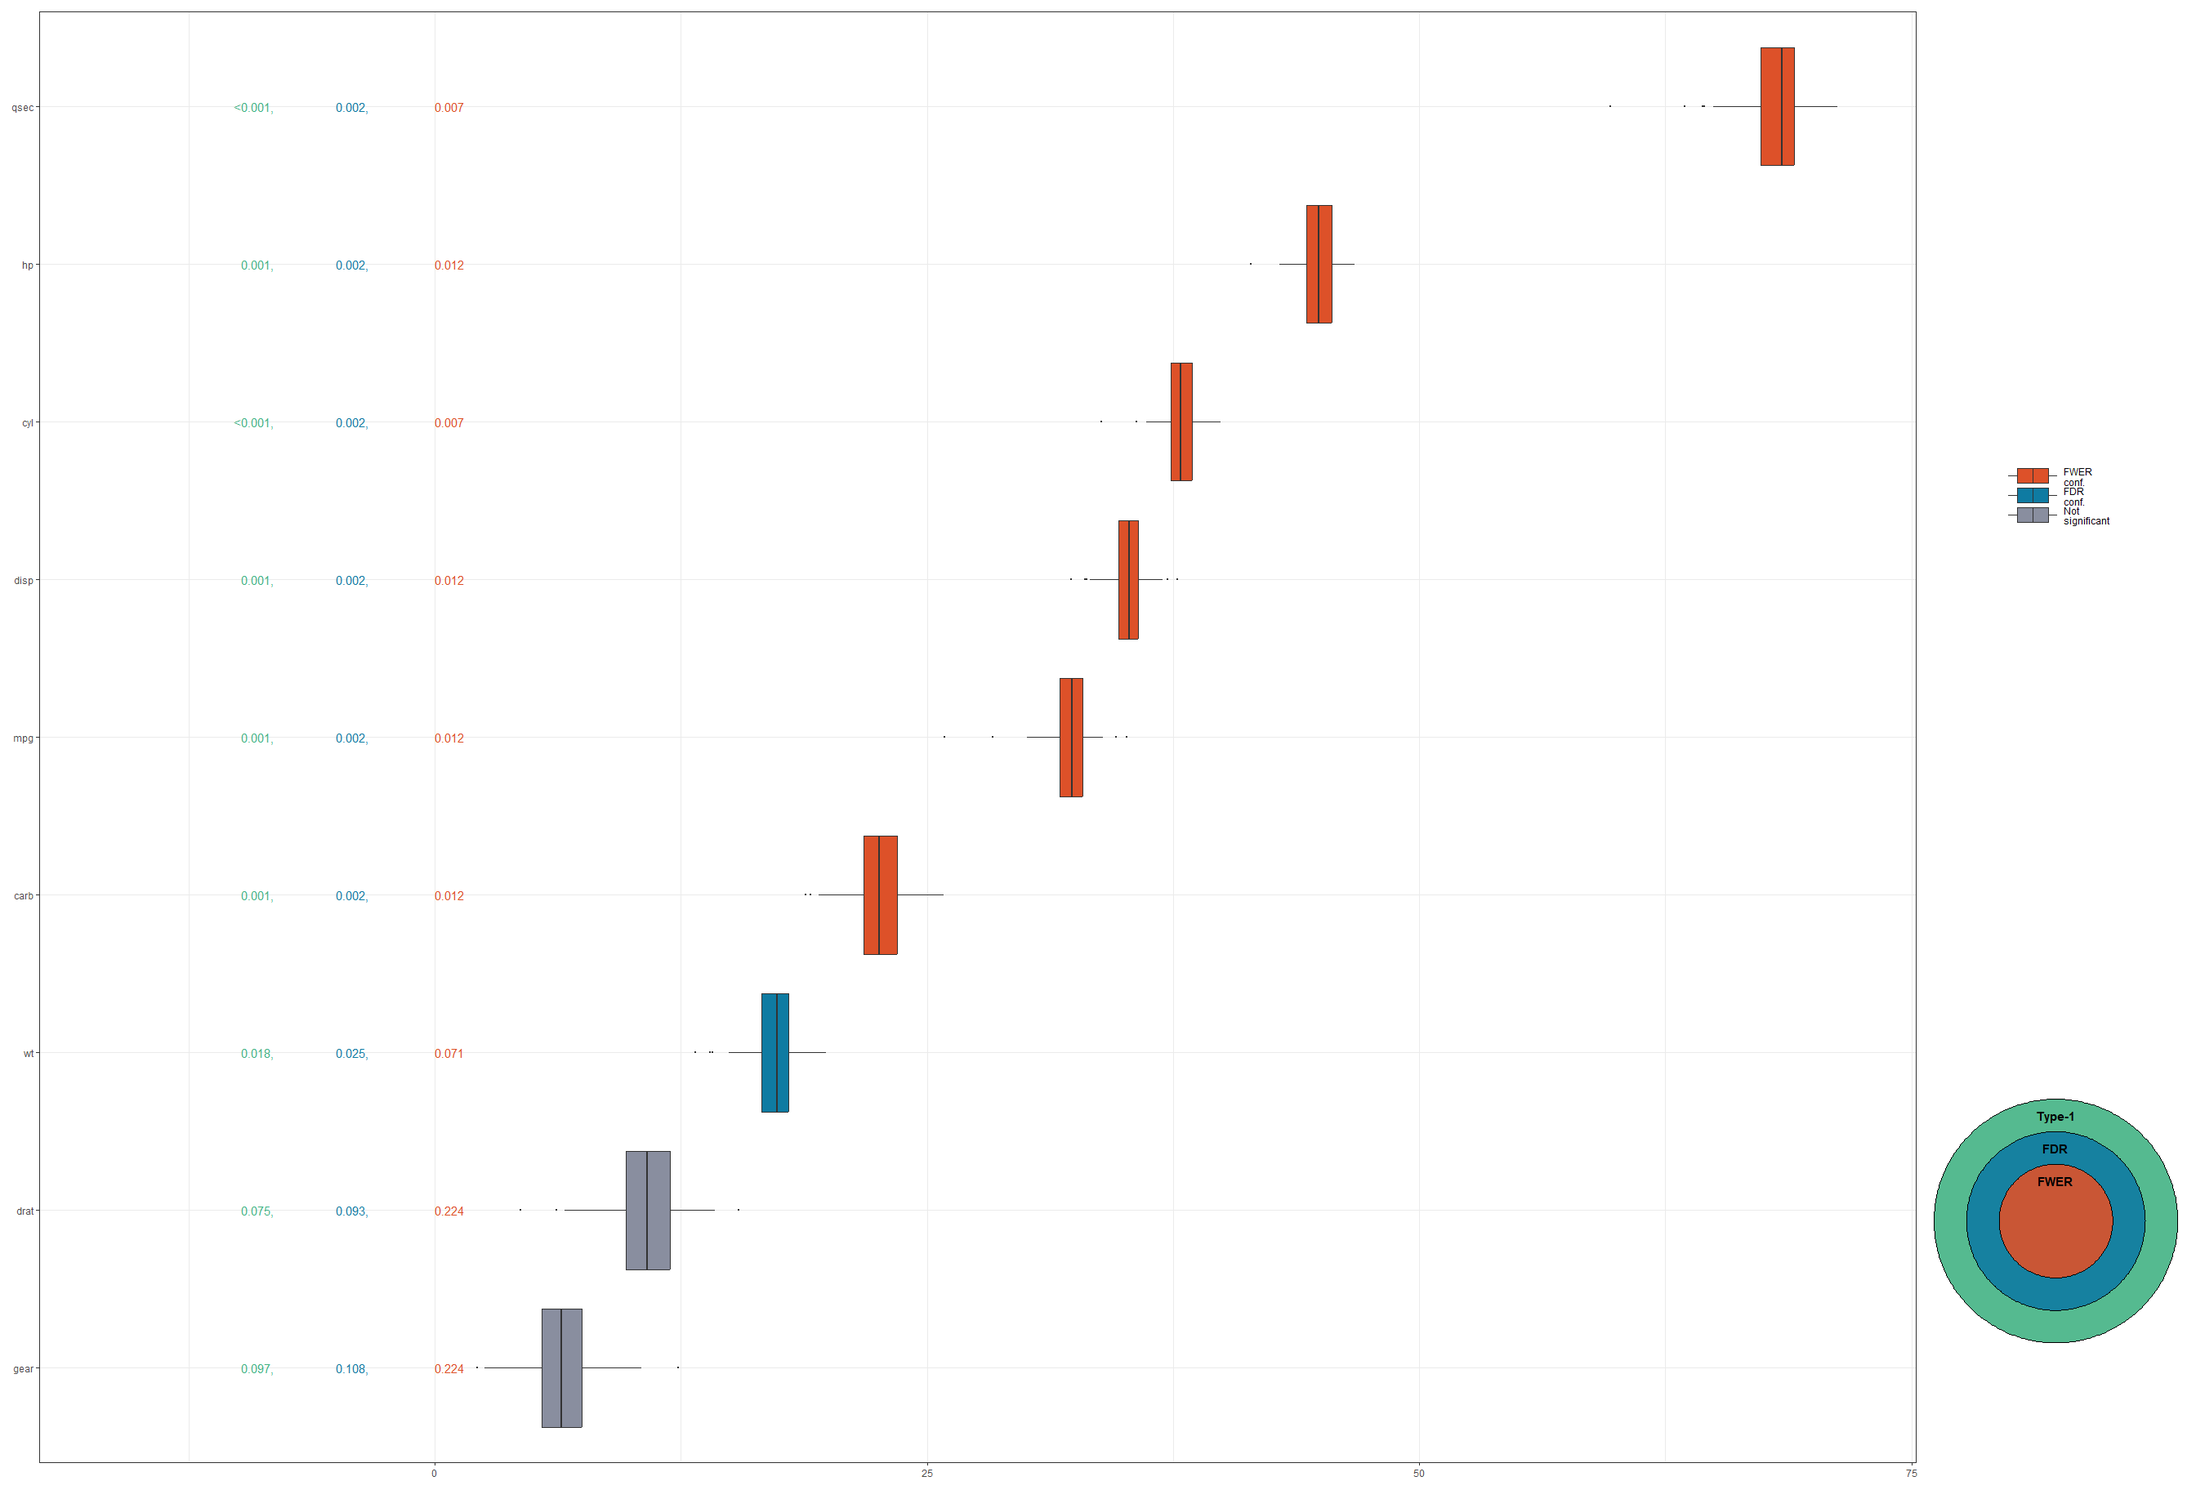
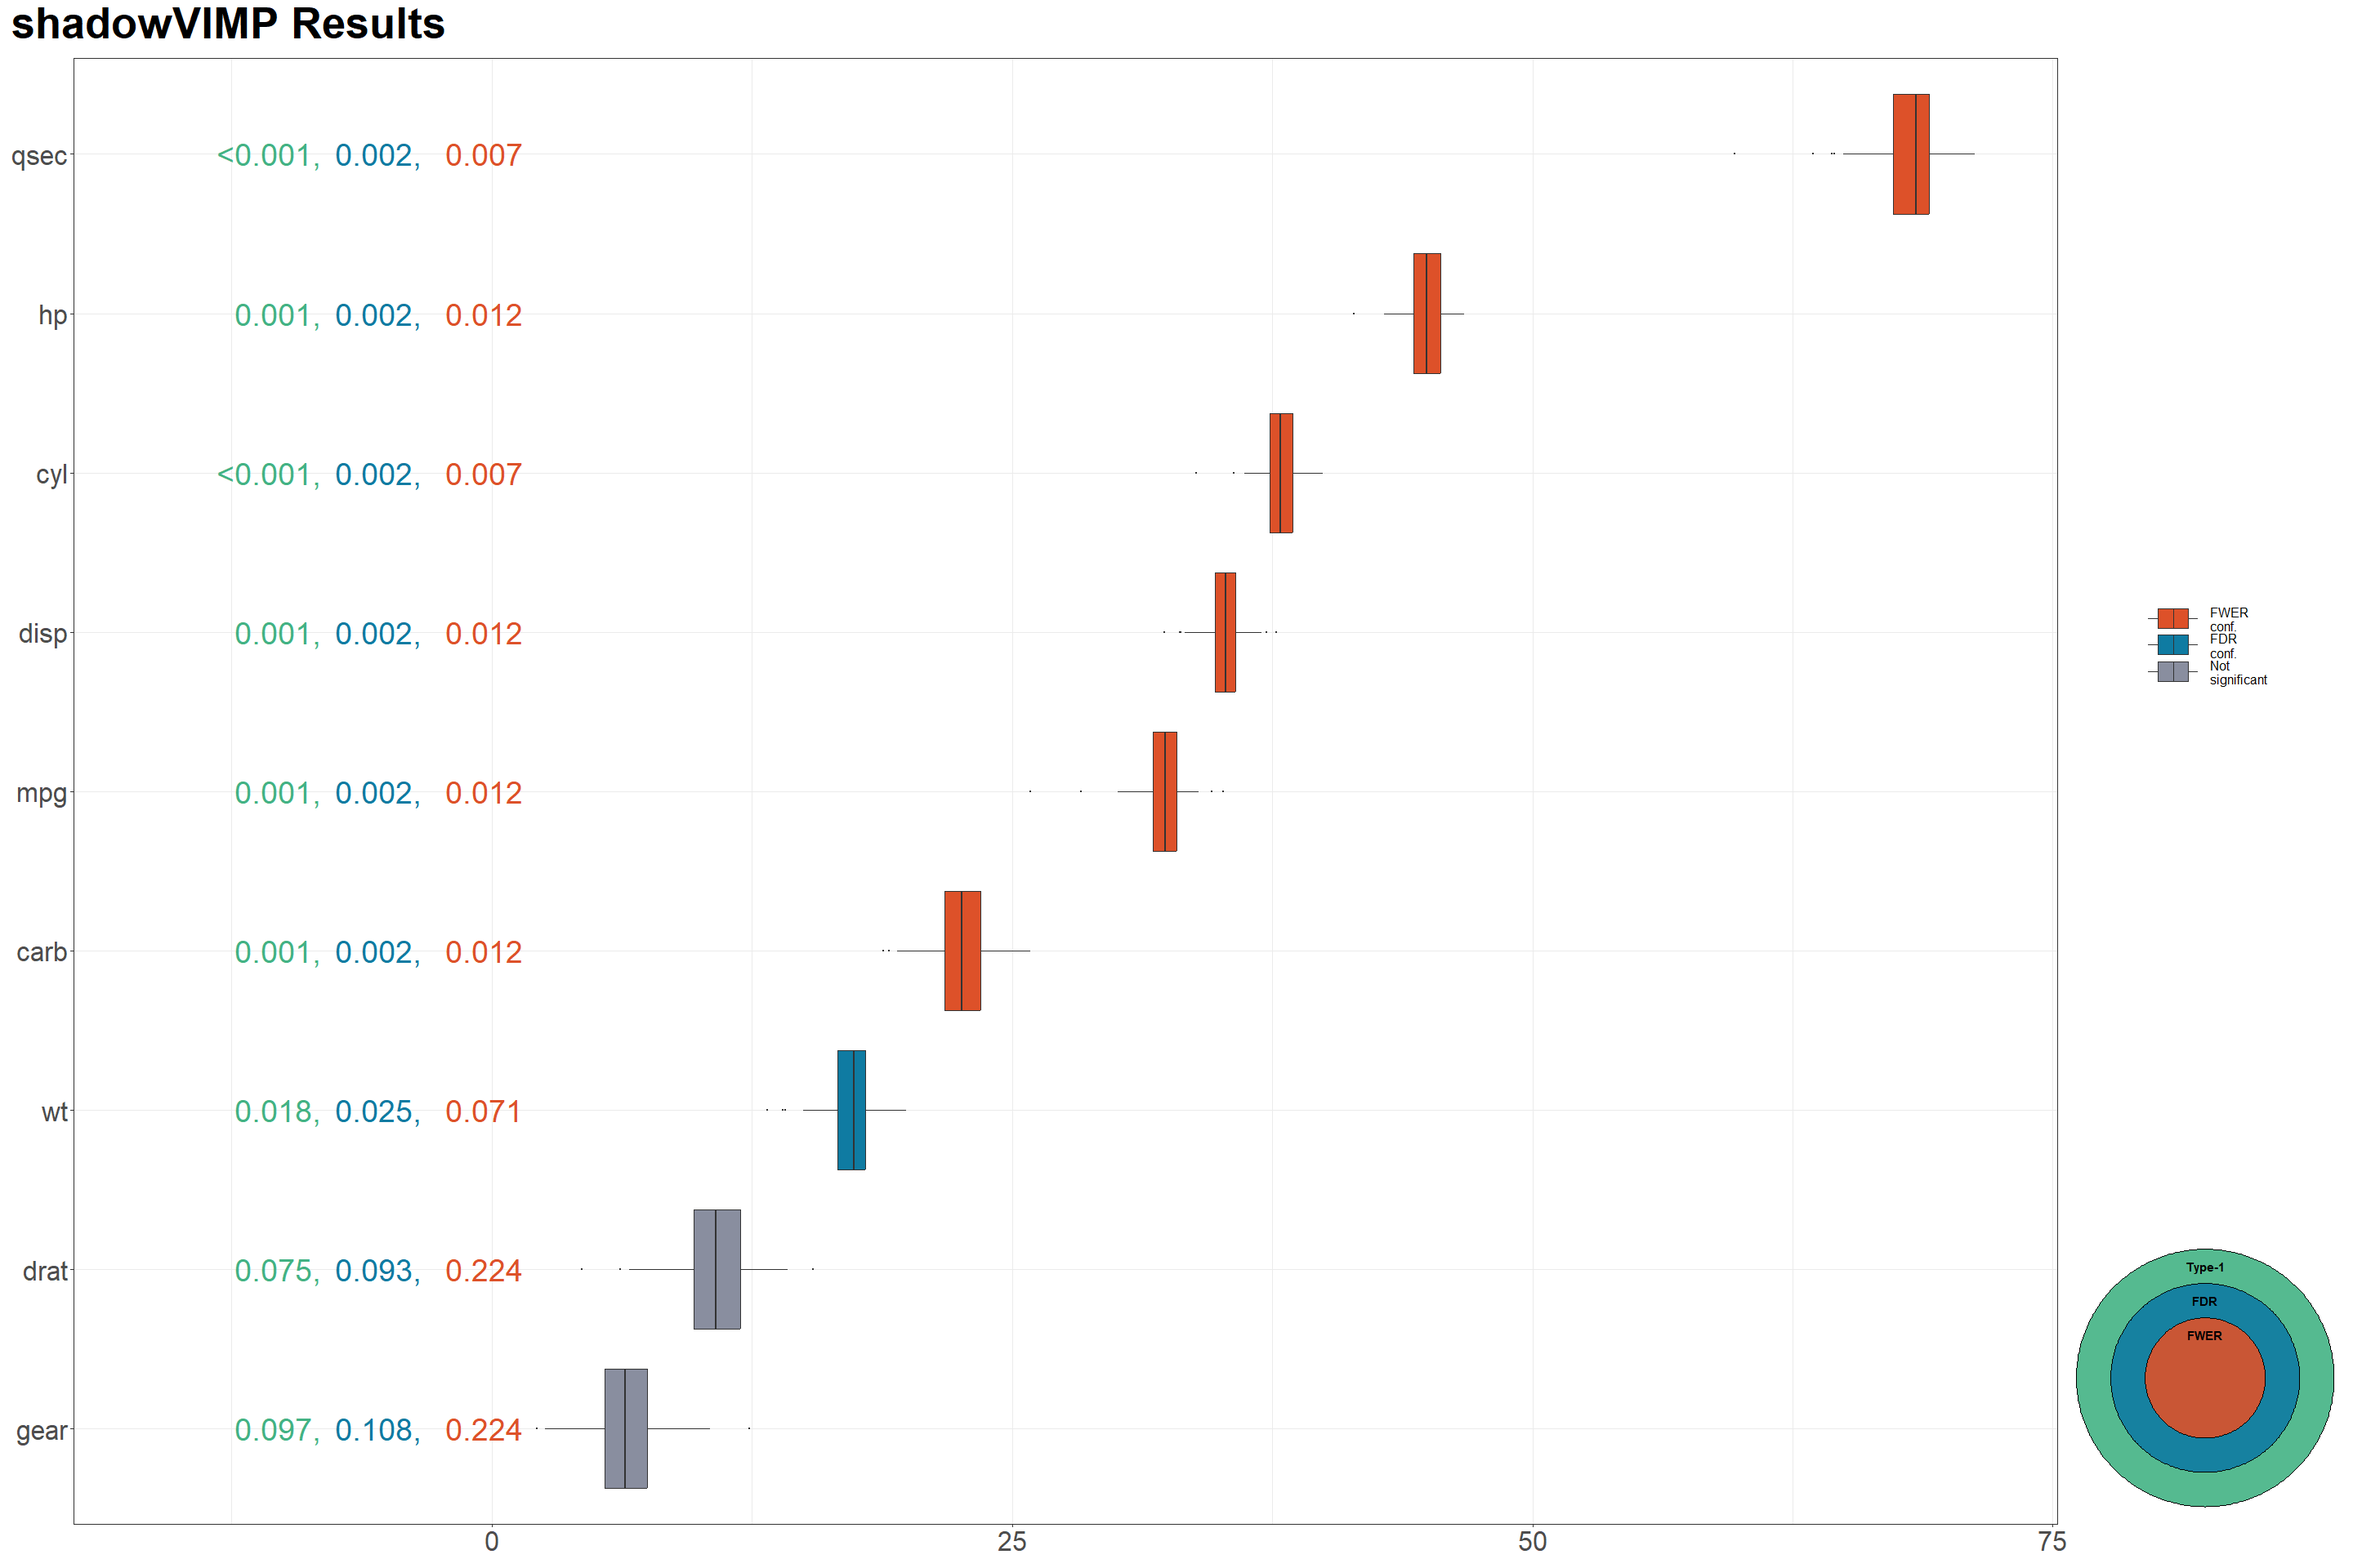
update plot [skip ci]

diff --git a/README.md b/README.md
@@ -54,6 +54,7 @@ the basic use case.
 ``` r
 library(shadowVIMP)
 library(magrittr)
+library(ggplot2)
 
 data(mtcars)
 
@@ -64,18 +65,18 @@ set.seed(789)
 # When working with real data, increase the value of the niters parameter or leave it at the default value
 vimp_seq <- shadow_vimp(data = mtcars, outcome_var = "vs", niters = c(30, 100, 150))
 #> alpha  0.3  
-#> 2025-03-19 14:11:39: dataframe = mtcars niters = 30 num.trees = 10000. Running step 1
+#> 2025-03-20 12:50:58: dataframe = mtcars niters = 30 num.trees = 10000. Running step 1
 #> Variables remaining:  10 
 #> alpha  0.1  
-#> 2025-03-19 14:11:45: dataframe = mtcars niters = 100 num.trees = 10000. Running step 1
-#> 2025-03-19 14:11:51: dataframe = mtcars niters = 100 num.trees = 10000. Running step 50
-#> 2025-03-19 14:11:58: dataframe = mtcars niters = 100 num.trees = 10000. Running step 100
+#> 2025-03-20 12:51:04: dataframe = mtcars niters = 100 num.trees = 10000. Running step 1
+#> 2025-03-20 12:51:10: dataframe = mtcars niters = 100 num.trees = 10000. Running step 50
+#> 2025-03-20 12:51:17: dataframe = mtcars niters = 100 num.trees = 10000. Running step 100
 #> Variables remaining:  9 
 #> alpha  0.05  
-#> 2025-03-19 14:11:58: dataframe = mtcars niters = 150 num.trees = 10000. Running step 1
-#> 2025-03-19 14:12:04: dataframe = mtcars niters = 150 num.trees = 10000. Running step 50
-#> 2025-03-19 14:12:10: dataframe = mtcars niters = 150 num.trees = 10000. Running step 100
-#> 2025-03-19 14:12:17: dataframe = mtcars niters = 150 num.trees = 10000. Running step 150
+#> 2025-03-20 12:51:17: dataframe = mtcars niters = 150 num.trees = 10000. Running step 1
+#> 2025-03-20 12:51:24: dataframe = mtcars niters = 150 num.trees = 10000. Running step 50
+#> 2025-03-20 12:51:31: dataframe = mtcars niters = 150 num.trees = 10000. Running step 100
+#> 2025-03-20 12:51:38: dataframe = mtcars niters = 150 num.trees = 10000. Running step 150
 #> Variables remaining:  7
 
 # Print informative covariates according to the pooled criterion (with and without p-value correction)
@@ -112,16 +113,16 @@ vimp_seq$result_taken_from_previous_step
 # Check the time needed to execute each step of the algorithm and the entire procedure
 vimp_seq$time_elapsed
 #> $step_1
-#> [1] 0.08808955
+#> [1] 0.0972524
 #> 
 #> $step_2
-#> [1] 0.2202961
+#> [1] 0.2236072
 #> 
 #> $step_3
-#> [1] 0.3172965
+#> [1] 0.3539478
 #> 
 #> $total_time_mins
-#> [1] 0.6256822
+#> [1] 0.6748073
 
 # Check the call code that was used to create the inspected object
 vimp_seq$call
@@ -157,7 +158,18 @@ vimp_seq$vimp_history %>% head()
 
 You can visualize your results in the following way:
 
-<img src="man/figures/README-example_cont-1.png" width="100%" />
+``` r
+plot_vimps(shadow_vimp_out = vimp_seq, text_size = 10) +
+  patchwork::plot_annotation(
+    title = "shadowVIMP Results",
+  ) &
+  theme(plot.title = element_text(size = 40, face = "bold"),
+        axis.text = element_text(size = 25), legend.text = element_text(size = 35)
+        
+  )
+```
+
+<img src="man/figures/README-example_cont-1.png" width="100%" style="display: block; margin: auto;" />
 
 For a more realistic and detailed example of how to use this package,
 and the theory behind the method, see `vignette("shadowVIMP-vignette")`.
